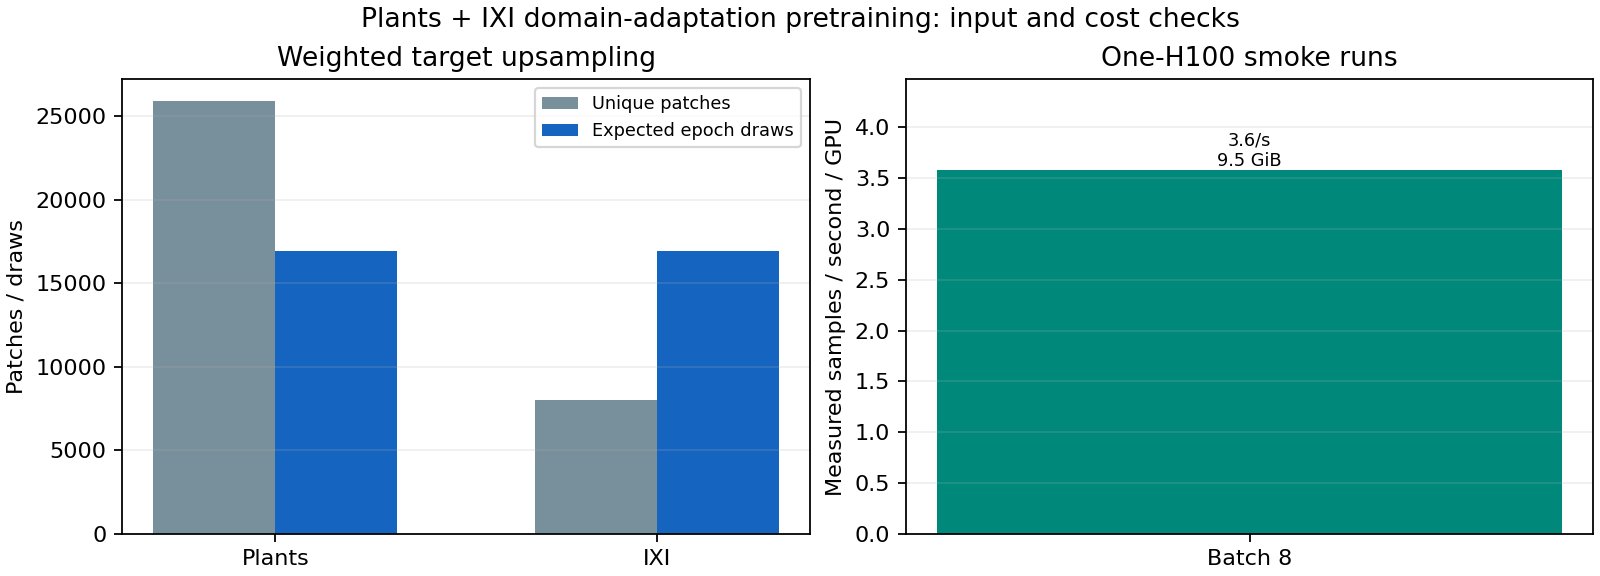
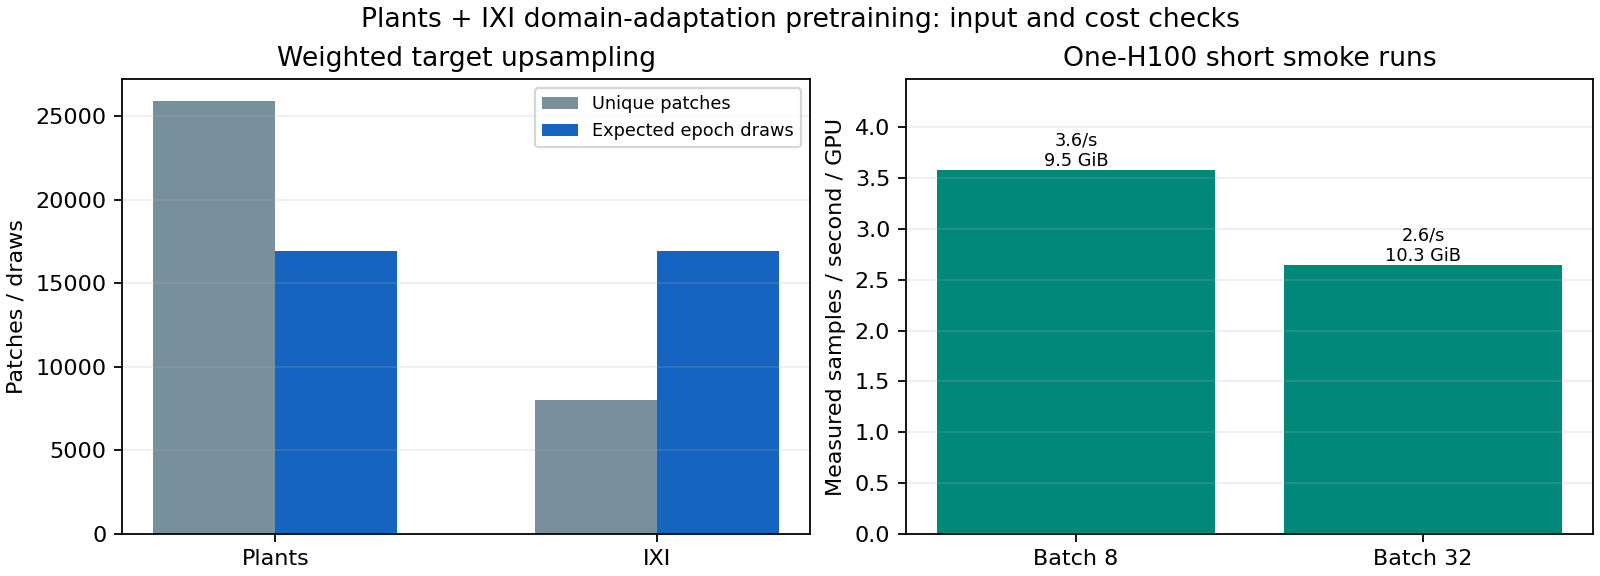
Add matched no-node-type ablation pipeline

diff --git a/tests/test_domain_adaptation.py b/tests/test_domain_adaptation.py
@@ -35,6 +35,62 @@ def _config():
 
 
 class DomainAdaptationTests(unittest.TestCase):
+    def test_node_type_ablation_configs_match_except_head_and_loss(self):
+        root = Path(__file__).resolve().parents[1]
+        environment = {
+            "GNBM_OUTPUT_DIR": "/outputs",
+            "PLANTS_DATASET": "/plants",
+            "SYNTHETIC_MRI_DATASET": "/ixi",
+        }
+        pairs = (
+            ("pretrain_plants_ixi_domain_types_50ep.yaml",
+             "pretrain_plants_ixi_domain_no_types_50ep.yaml"),
+            ("finetune_ixi_domainpretrained_types_100ep.yaml",
+             "finetune_ixi_domainpretrained_no_types_100ep.yaml"),
+        )
+        for with_head_name, without_head_name in pairs:
+            with self.subTest(pair=with_head_name):
+                with_head = load_config(root / "configs" / with_head_name,
+                                        environment=environment)
+                without_head = load_config(root / "configs" / without_head_name,
+                                           environment=environment)
+                validate_config(with_head)
+                validate_config(without_head)
+                self.assertTrue(with_head["model"]["node_type"]["enabled"])
+                self.assertFalse(without_head["model"]["node_type"]["enabled"])
+                self.assertIn("node_types", with_head["loss"]["enabled"])
+                self.assertNotIn("node_types", without_head["loss"]["enabled"])
+                with_head["model"]["node_type"]["enabled"] = False
+                with_head["loss"]["enabled"].remove("node_types")
+                for config in (with_head, without_head):
+                    config["experiment"]["name"] = None
+                    config["tracking"]["tags"] = []
+                self.assertEqual(with_head, without_head)
+
+    def test_shared_initialization_matches_with_or_without_type_head(self):
+        class Encoder(nn.Module):
+            num_features = 48
+
+            def forward(self, volumes):
+                return volumes
+
+        class Decoder(nn.Module):
+            def forward(self, projected, mask, queries, positions):
+                return projected.mean(dim=(2, 3, 4))[:, None, :] + queries[None]
+
+        def make_model(enabled):
+            config = _config()
+            config["model"]["decoder"]["hidden_dim"] = 48
+            config["domain_adaptation"]["hidden_size"] = 16
+            config["model"]["node_type"]["enabled"] = enabled
+            torch.manual_seed(1729)
+            return RelationFormer(Encoder(), Decoder(), config)
+
+        with_head = make_model(True).state_dict()
+        without_head = make_model(False).state_dict()
+        for name, value in without_head.items():
+            self.assertTrue(torch.equal(value, with_head[name]), name)
+
     def test_model_emits_both_reference_domain_predictions(self):
         config = _config()
         config["model"]["decoder"]["hidden_dim"] = 48

diff --git a/docs/research/evidence/domain_ixi_pretraining/plot_smoke.py b/docs/research/evidence/domain_ixi_pretraining/plot_smoke.py
@@ -41,7 +41,10 @@ def main():
             "ixi": epoch_draws / 2,
         },
         "smoke_runs": measured,
-        "note": "The draw counts are sampler expectations, not an observed epoch histogram.",
+        "note": (
+            "Draw counts are sampler expectations. Smoke throughput is a short-run "
+            "measurement, not a reliable full-epoch speed estimate."
+        ),
     }
     HERE.mkdir(parents=True, exist_ok=True)
     (HERE / "smoke_summary.json").write_text(
@@ -68,7 +71,7 @@ def main():
         memory = [measured[size]["peak_allocated_gib"] for size in batches]
         axes[1].bar(labels, throughput, color="#00897b")
         axes[1].set_ylabel("Measured samples / second / GPU")
-        axes[1].set_title("One-H100 smoke runs")
+        axes[1].set_title("One-H100 short smoke runs")
         for index, (speed, gib) in enumerate(zip(throughput, memory)):
             axes[1].text(index, speed, f"{speed:.1f}/s\n{gib:.1f} GiB",
                          ha="center", va="bottom", fontsize=8)

diff --git a/models/relationformer.py b/models/relationformer.py
@@ -72,11 +72,13 @@ class RelationFormer(nn.Module):
         self.class_embed = nn.Linear(hidden_dim, int(model["num_classes"]))
         # Optional patch-graph degree class: isolated, terminal, degree-2, junction.
         # Keep disabled for exact compatibility with existing checkpoints.
-        self.node_type_embed = (
-            nn.Linear(hidden_dim, 4)
-            if model.get("node_type", {}).get("enabled", False)
-            else None
-        )
+        # Keep subsequent shared-parameter initialization identical for the
+        # matched with/without-node-type ablation under the same random seed.
+        if model.get("node_type", {}).get("enabled", False):
+            with torch.random.fork_rng(devices=[]):
+                self.node_type_embed = nn.Linear(hidden_dim, 4)
+        else:
+            self.node_type_embed = None
         self.coord_embed = MLP(hidden_dim, hidden_dim, 6, 3)
         self.obj_token = object_queries
 

diff --git a/docs/research/evidence/domain_ixi_pretraining/README.md b/docs/research/evidence/domain_ixi_pretraining/README.md
@@ -11,13 +11,14 @@ domain discriminators. The degree-type head stays active in both stages.
 The [smoke plot](smoke_evidence.png) and `smoke_summary.json` show the input
 composition and measured one-H100 smoke-run throughput/memory. Draw counts in
 the plot are *expectations*, not observed per-epoch counts. The batch-8 smoke
-run passed training and validation; batch-32 is a separate memory/throughput
-check before production becomes eligible.
+run passed training and validation. The batch-32 run also passed training and
+validation with 10.28 GiB peak allocated GPU memory. Its one-step throughput
+is not a reliable full-epoch speed estimate; the purpose was to check memory.
 
 Jobs and dependencies:
 
 - `148568`: batch-8 smoke, **completed**.
-- `148871`: batch-32 smoke, pending at last check.
+- `148871`: batch-32 smoke, **completed**.
 - `149029`: 50-epoch pretraining, `afterok:148871`, 2 H100s, 40-hour limit.
 - `149114`: 100-epoch IXI fine-tuning, `afterok:149029`, 2 H100s, 8-hour
   limit; initializes from the completed pretraining run's epoch-50 `latest`
@@ -28,3 +29,22 @@ Run outputs and dataset manifests are under
 under `/lustre/fswork/projects/rech/vnc/upz25mj/logs/graph-native-betti-matching/`.
 W&B is in offline mode for reliable cluster execution; metrics are retained in
 the run directory for later synchronization and local plotting.
+
+## Matched node-type ablation
+
+The control repeats **both** stages independently: 50 mixed pretraining epochs
+from a fresh initialization, then 100 IXI-only fine-tuning epochs initialized
+from that control's own epoch-50 checkpoint. Its only substantive differences
+are `model.node_type.enabled: false` and removal of `node_types` from the
+optimized losses. The same seed, dataset manifests, batch sizes, query count,
+domain objective, optimizer, schedules, and validation/test protocol are kept.
+The shared weights are initialized identically under that seed; the enabled
+head is initialized without advancing the shared initialization RNG.
+
+For the primary comparison, use the same ordinary edge decoder (degree-aware
+penalty **off**) and the same held-out IXI test split. Select checkpoints and
+any thresholds using validation only. Report Branch F1, node/edge precision
+and recall, edge overconnection/topology errors, and GPU time/memory. Report
+matched-node type accuracy for the head model separately; a later degree-aware
+decoding comparison tests the *inference* contribution, not the head's training
+contribution. One seed is a matched pilot, not a significance claim.

diff --git a/docs/research/evidence/domain_ixi_pretraining/test_types300.md b/docs/research/evidence/domain_ixi_pretraining/test_types300.md
@@ -1,0 +1,26 @@
+# IXI node-type model: held-out test evaluation
+
+Job `170838` evaluated the completed 300-epoch IXI node-type model
+(`ixi_q256_types_300ep_20260924`, best validation Branch-F1 checkpoint from
+epoch 290) on all **2,384 active test patches**.
+
+Summary: node F1 **0.5103**, edge F1 **0.3894**, edge precision **0.2620**,
+edge recall **0.7582**, Branch F1 **0.00887**, and edge-count absolute error
+**95.55**. The model predicts on average **65.64 nodes / 145.87 edges**, while
+the targets contain **54.35 nodes / 50.39 edges**. Thus node detection is
+moderate, but the graph is strongly over-connected: predicted beta-1 is
+82.82 versus target beta-1 0.77.
+
+These are the plain decoder results at the model's standard inference rule;
+they are not evidence that the node-type head improves performance yet. The
+matched no-node-type pretraining+fine-tuning control is being run separately.
+
+Interactive paired reports (segmentation+GT beside segmentation+prediction):
+
+- [Sparse patch: `sample_000003_0000`](../../../../../../../../experiments/gnbm/ixi_q256_types_300ep_20260924/evaluation/test_best_branch_f1/interactive_sample_000003_0000/sample_000003_0000__sample_000000.html)
+- [Dense/over-connected patch: `sample_000104_0119`](../../../../../../../../experiments/gnbm/ixi_q256_types_300ep_20260924/evaluation/test_best_branch_f1/interactive_sample_000104_0119/sample_000104_0119__sample_001685.html)
+
+The dense example has 168 GT nodes and 164 GT edges versus 228 predicted
+nodes and 886 predicted edges. PNG snapshots are next to each HTML report.
+The complete machine-readable outputs are `summary.json`,
+`per-patch-metrics.csv`, and `predictions.json` in the evaluation directory.
